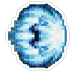
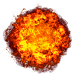
Attacks work, counters almost work.

diff --git a/js/gameMaster.js b/js/gameMaster.js
@@ -131,6 +131,7 @@ function GameMaster(players)
 				//Display attack
 				currentPlayer.attackBitmap.x = gridInitX + blockSize * playersWantedAttacks[currentPlayer.gamepadId].x;
 				currentPlayer.attackBitmap.y = gridInitY + blockSize * playersWantedAttacks[currentPlayer.gamepadId].y;
+				currentPlayer.attackBitmap.visible = true;
 
 				//Check if someone was killed
 				for(o in this.players)
@@ -142,13 +143,21 @@ function GameMaster(players)
 						&&  playersWantedAttacks[currentPlayer.gamepadId].y ==playersWantedPositions[otherPlayer.gamepadId].y)
 					{
 						// we caught another player with the attack
-						// TODO : deal with counters.
-
-
-						otherPlayer.aliveState = "dead";
-						stage.removeChild(otherPlayer.internalBitmap);
+						// Check if he counters
+						if (playersWantedAttacks[otherPlayer.gamepadId].x != -1
+							&& playersWantedAttacks[otherPlayer.gamepadId].x == playersWantedPositions[currentPlayer.gamepadId].x
+						&&  playersWantedAttacks[otherPlayer.gamepadId].y ==playersWantedPositions[currentPlayer.gamepadId].y)
+						{
+							console.log("counter !");
+						}
+						else // he dies
+						{
+							// TODO : proper remove (no actions possible)
+							otherPlayer.aliveState = "dead";
+							otherPlayer.internalBitmap.visible = false;
+							stage.removeChild(otherPlayer.internalBitmap);
+						}
 					}
-
 				}
 			}
 		}

diff --git a/js/player.js b/js/player.js
@@ -102,10 +102,13 @@ function Player(bitmap, position, controls, gamepadId)
 
 	this.CheckOneAction = function(source, outcome)
 	{
-		if((!this.prevState[source] && isKeyPressed[source]) || (!this.prevGamePadState[source] && this.gamePadState[source]))
+		if (this.aliveState == "alive") // dead players cant queue actions
 		{
-			this.programmedActions.push(outcome);
-			createjs.Sound.play(commandSetSound);
+			if((!this.prevState[source] && isKeyPressed[source]) || (!this.prevGamePadState[source] && this.gamePadState[source]))
+			{
+				this.programmedActions.push(outcome);
+				createjs.Sound.play(commandSetSound);
+			}
 		}
 		this.prevState[source] = isKeyPressed[source];
 		this.prevGamePadState[source] = this.gamePadState[source];

diff --git a/js/core.js b/js/core.js
@@ -214,6 +214,15 @@ function update(event)
 			{
 				gameState = "programActions";
 				currentTurn = 0;
+
+				// TODO : this should be done properly
+				for(p in players)
+				{
+					var player = players[p];
+					player.attackBitmap.visible = false;
+				}
+
+
 			}
 		}
 	}
